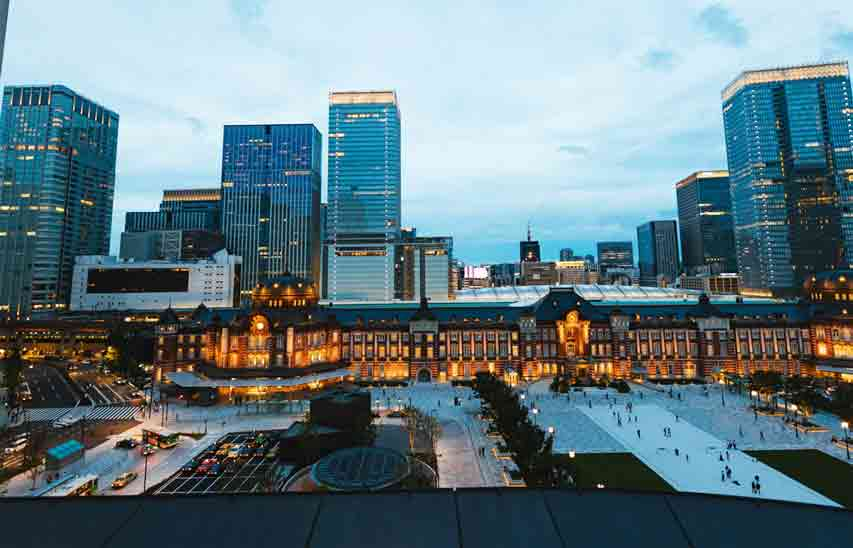
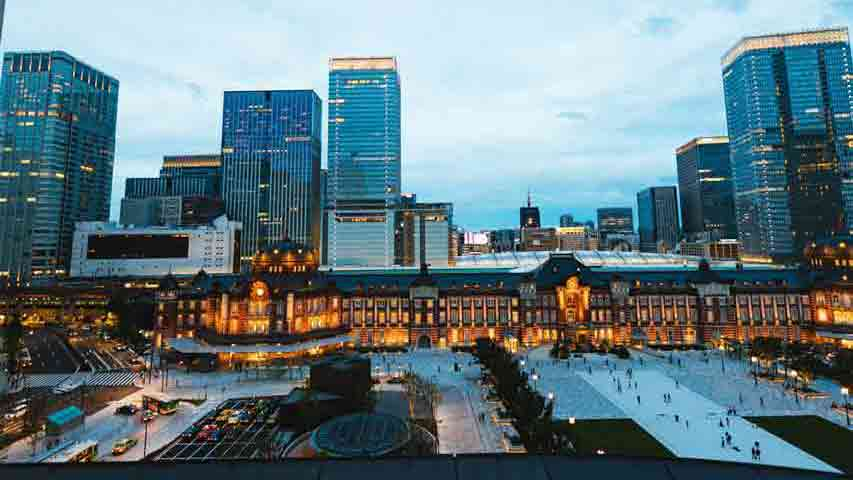
add height, width and decoding to img tag

diff --git a/src/pages/biography/index.tsx b/src/pages/biography/index.tsx
@@ -9,7 +9,7 @@ export default function Biography() {
             <h2 className={styles.main__header}>Biography</h2>
           </div>
           <div className={styles.artist_img_wrapper}>
-            <img src="/top_tokyo_station.jpg" alt="artist_img" className={styles.artist_image} />
+            <img src="/top_tokyo_station.jpg" alt="artist_img" className={styles.artist_image} height={500} width={800} decoding="async" />
           </div>
           <div className={styles.member_list}>
             <ul>

diff --git a/src/pages/index.tsx b/src/pages/index.tsx
@@ -6,7 +6,7 @@ export default function Home() {
   return (
     <>
         <div className={styles.artist_image_wrapper}>
-          <img src="/top_tokyo_station.jpg" alt="artist image" className={styles.artist_image}></img>
+          <img src="/top_tokyo_station.jpg" alt="artist image" className={styles.artist_image} height={500} width={800} decoding="async" />
         </div>
 
         <div className={styles.main__header__container}>

diff --git a/src/styles/Home.module.scss b/src/styles/Home.module.scss
@@ -2,6 +2,7 @@
 
 .artist_image {
   width: 100%;
+  height: auto;
   object-fit: cover;
 }
 
